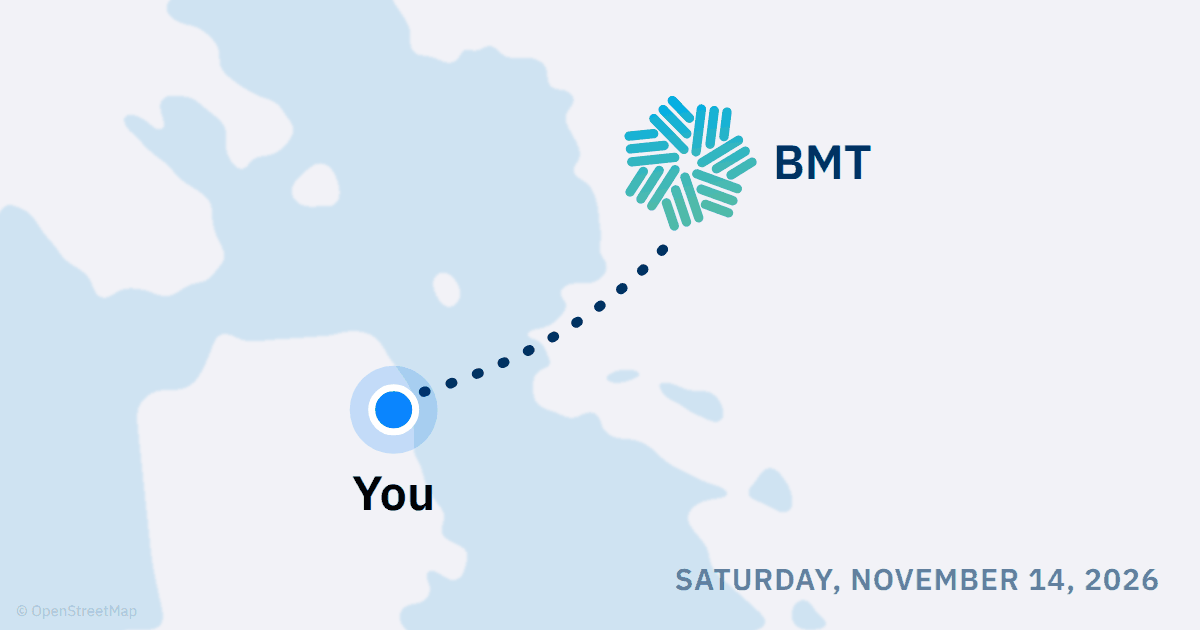
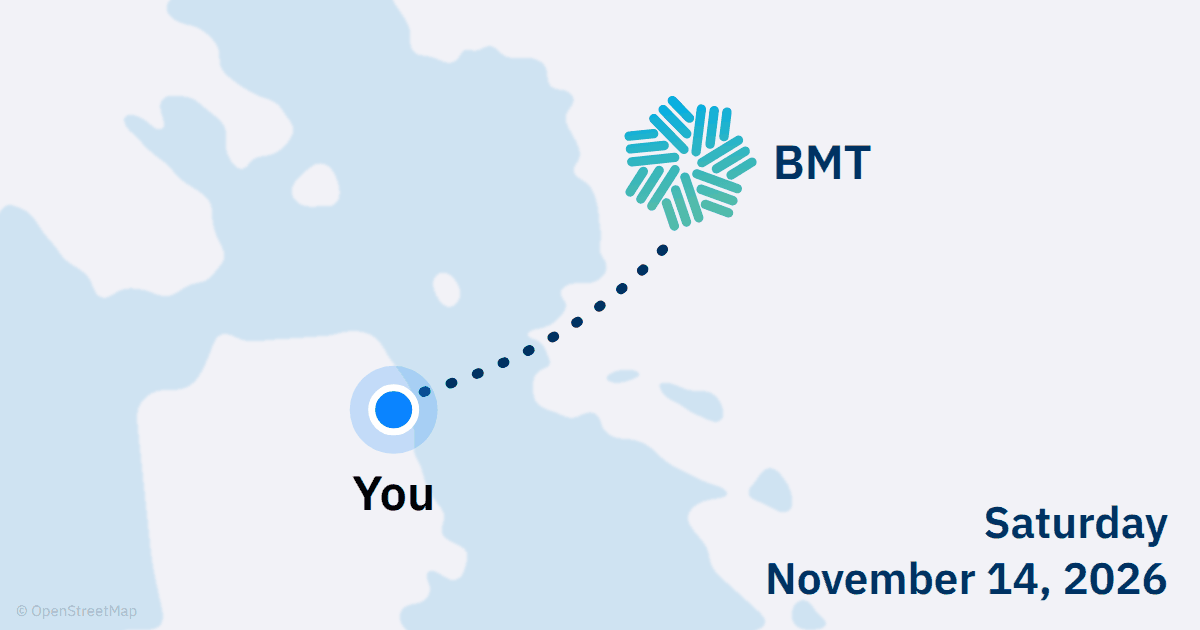
Preview: date in navy on two lines, Trip Planner title

Changed region(s): [[0.555, 0.8143, 0.9867, 0.9651], [0.3392, 0.6032, 0.37, 0.6333]]

diff --git a/static/t/index.html b/static/t/index.html
@@ -1,8 +1,8 @@
 <!doctype html>
 <meta charset="utf-8">
 <meta name="robots" content="noindex">
-<title>Getting to BMT: trip planner</title>
-<meta property="og:title" content="Getting to BMT: trip planner" />
+<title>Getting to BMT: Trip Planner</title>
+<meta property="og:title" content="Getting to BMT: Trip Planner" />
 <meta property="og:description" content="Plan your trip to Dwinelle Hall for BMT on Nov 14." />
 <meta property="og:image" content="https://berkeley.mt/t/preview.png" />
 <meta property="og:image:width" content="1200" />
